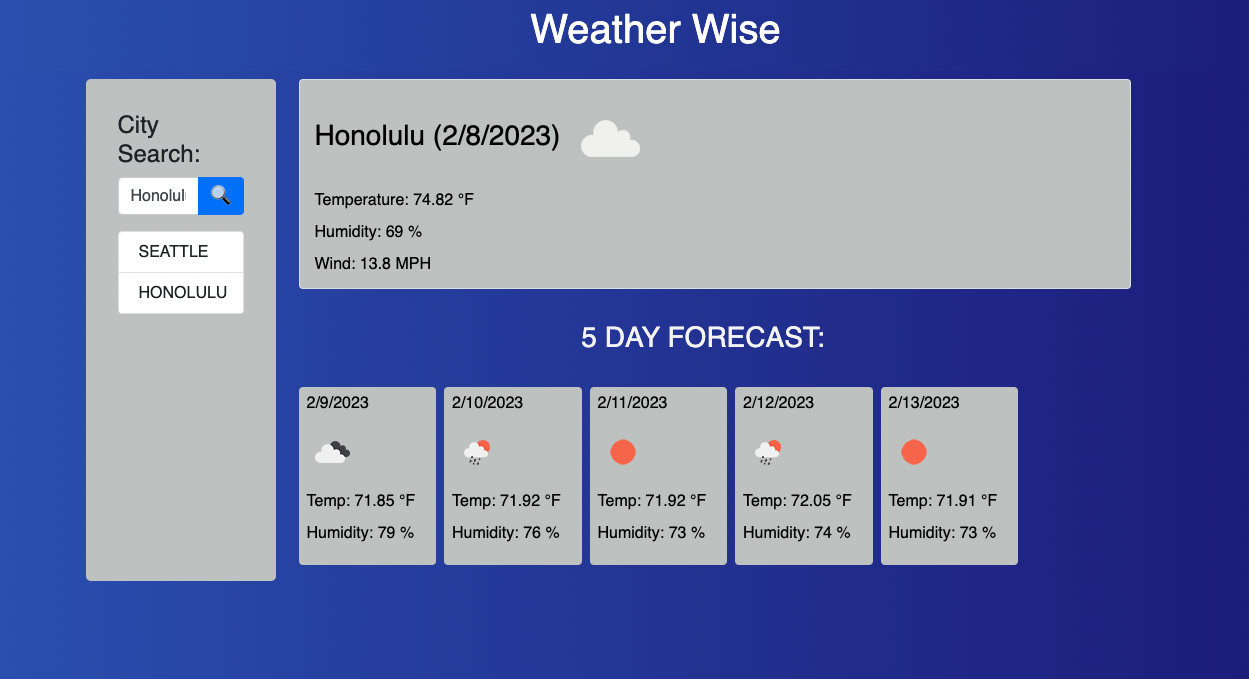
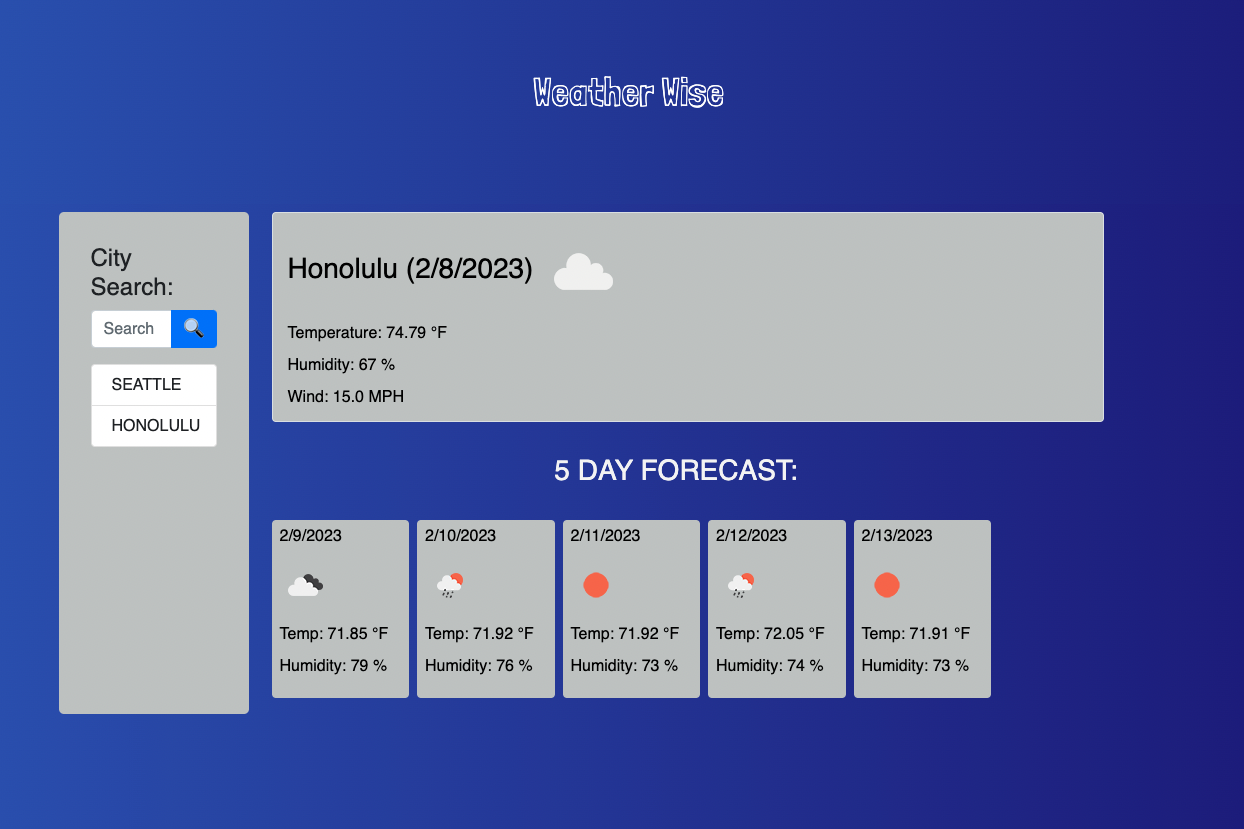
google fonts

diff --git a/index.html b/index.html
@@ -7,6 +7,9 @@
     <meta name="viewport" content="width=device-width, initial-scale=1.0">
     <link rel="stylesheet" href="https://cdn.jsdelivr.net/npm/bootstrap@4.3.1/dist/css/bootstrap.min.css"
         integrity="sha384-ggOyR0iXCbMQv3Xipma34MD+dH/1fQ784/j6cY/iJTQUOhcWr7x9JvoRxT2MZw1T" crossorigin="anonymous">
+    <link rel="preconnect" href="https://fonts.googleapis.com">
+    <link rel="preconnect" href="https://fonts.gstatic.com" crossorigin>
+    <link href="https://fonts.googleapis.com/css2?family=Londrina+Sketch&display=swap" rel="stylesheet">
     <link rel="stylesheet" href="assets/css/style.css">
     <link rel="shortcut icon" type="image/x-icon" href="assets/favicon.ico" />
     <title>Weather Wise</title>
@@ -89,14 +92,14 @@
 
 
 <script src="https://code.jquery.com/jquery-3.3.1.slim.min.js"
-integrity="sha384-q8i/X+965DzO0rT7abK41JStQIAqVgRVzpbzo5smXKp4YfRvH+8abtTE1Pi6jizo"
-crossorigin="anonymous"></script>
+    integrity="sha384-q8i/X+965DzO0rT7abK41JStQIAqVgRVzpbzo5smXKp4YfRvH+8abtTE1Pi6jizo"
+    crossorigin="anonymous"></script>
 <script src="https://cdn.jsdelivr.net/npm/popper.js@1.14.7/dist/umd/popper.min.js"
-integrity="sha384-UO2eT0CpHqdSJQ6hJty5KVphtPhzWj9WO1clHTMGa3JDZwrnQq4sF86dIHNDz0W1"
-crossorigin="anonymous"></script>
+    integrity="sha384-UO2eT0CpHqdSJQ6hJty5KVphtPhzWj9WO1clHTMGa3JDZwrnQq4sF86dIHNDz0W1"
+    crossorigin="anonymous"></script>
 <script src="https://cdn.jsdelivr.net/npm/bootstrap@4.3.1/dist/js/bootstrap.min.js"
-integrity="sha384-JjSmVgyd0p3pXB1rRibZUAYoIIy6OrQ6VrjIEaFf/nJGzIxFDsf4x0xIM+B07jRM"
-crossorigin="anonymous"></script>
+    integrity="sha384-JjSmVgyd0p3pXB1rRibZUAYoIIy6OrQ6VrjIEaFf/nJGzIxFDsf4x0xIM+B07jRM"
+    crossorigin="anonymous"></script>
 <script src="https://cdnjs.cloudflare.com/ajax/libs/jquery/3.2.1/jquery.min.js"></script>
 <script src="https://cdnjs.cloudflare.com/ajax/libs/moment.js/2.24.0/moment.min.js"></script>
 <script src="assets/js/script.js"></script>

diff --git a/assets/css/style.css b/assets/css/style.css
@@ -10,7 +10,9 @@ header {
     text-align: center;
     background-image: linear-gradient(to right, #3b64c4, #1a117f);
     color: white;
-    padding: 10px;
+    padding: 5rem;
+    font-family: 'Londrina Sketch', cursive;
+    
 }
 
 .fiveday {
